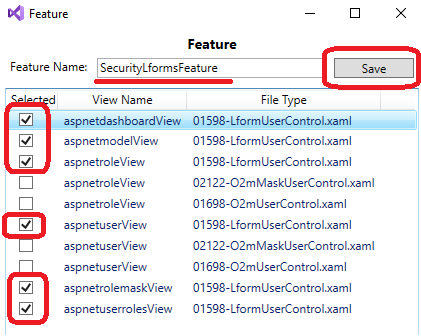
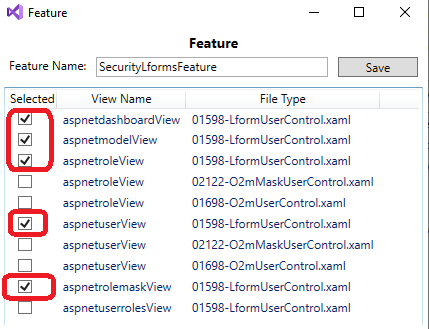
readme changed and some bag fix

diff --git a/readme.md b/readme.md
@@ -86,7 +86,10 @@
 #### [Modify main menu for Features of  Authorization](#Modify-main-menu-for-Features-of-Authorization)
 #### [Test Features of  Authorization](#Test-Features-of-Authorization)
 #### [Populate data for  Authorization](#Populate-data-for-Authorization)
-
+#### [Add Roles to  application](#Add-Roles-to-application)
+#### [Add bitmask rows for  roles](#Add-bitmask-rows-for-roles)
+#### [View user permissions](#View-user-permissions)
+#### [Turn on  Authorization](#Turn-on-Authorization)
 
 ## Programming tools used to start the development process
 ### The following Programming tools must be used to begin development:
@@ -1605,7 +1608,7 @@ Again, immediately after logging out of the system, the Permissions variable sho
         int[] _Permissions = new int[] { 0, 0, 0, 0, 0, 0, 0, 0, 0, 0, 0, 0, 0, 0, 0, 0, 0 };
 ```
         
-Information about how to generate and setup Authorization for the server and client part of the app will be described in the Wiki of CS2WPF-project.
+Information about how to generate and setup Authorization for the server and client part of the app will be described in the Wiki of CS2WPF-project and in this readme.
 
 Note 1: the developer should not manually populate data for Views and Dashboards vars. There is a special generator scripts for SQL-code (to populate Database tables) and C# code to be inserted in AppGlblSettingsService.cs-file. 
 
@@ -1989,7 +1992,7 @@ Under [Creating LiteratureTest Database on the server  side](#Creating-Literatur
     - aspnetroleView (01598-LformUserControl.xaml)
     - aspnetuserView (01598-LformUserControl.xaml)
     - aspnetrolemaskView (01598-LformUserControl.xaml)
-    - aspnetuserrolesView (01598-LformUserControl.xaml)
+    
 
 ![picture](img/img03rm27.png)
 
@@ -2039,7 +2042,6 @@ Under [Creating LiteratureTest Database on the server  side](#Creating-Literatur
 ###  Creating SecurityO2msFeature
 - Repeat steps 1-21 of [Creating  SecurityLformsFeature](#Creating-SecurityLformsFeature)
 - At Step 5: In the "Feature"-dialog enter "SecurityO2msFeature"-name for the feature and check the following items and click "Save"-button
-    - aspnetroleView (01698-O2mUserControl.xaml)
     - aspnetroleView (02122-O2mMaskUserControl.xaml)
     - aspnetuserView (01698-O2mUserControl.xaml)
     - aspnetuserView (02122-O2mMaskUserControl.xaml)
@@ -2182,3 +2184,85 @@ To populate data for "LitDbContext" the developer should follow the steps descri
 ## Add Roles to application
 For now we are ready to add/modify/delete roles for the  application.
 - Click "Security Lforms Feature"-menu item
+- "AspnetroleViewLformUserControl"-child window gives this opportunity
+
+![picture](img/img03rm39.png)
+
+## Assign roles to user
+For now we are ready to Assign(Remove) roles to user.
+- Click "Security Lforms Feature"-menu item
+- "AspnetuserViewO2mUserControl"-child window gives this opportunity
+
+![picture](img/img03rm40.png)
+
+## Add bitmask rows for roles
+Selecting master rows in "AspnetroleViewO2mMaskUserControl"-controls does not changed the detail panel. This is because "dbo.aspnetrolemasks"-table is empty.
+
+![picture](img/img03rm41.png)
+
+- Navigate to "Security Lforms Feature"
+- With AspnetrolemaskViewLformUserControl add one row for each Role.
+
+![picture](img/img03rm42.png)
+
+Selecting master rows in "AspnetroleViewO2mMaskUserControl"-controls shows the detail panel. 
+
+![picture](img/img03rm43.png)
+
+## View user permissions
+After configuring permissions for roles and assigning roles to users, you can view user permissions, which is READ ONLY.
+- "AspnetuserViewO2mMaskUserControl"-child window gives this opportunity
+
+![picture](img/img03rm44.png)
+
+## Turn on Authorization
+- Step 1: Open "AppGlblSettingsService.cs"-file of CommonServicesPrismModule-project. Comment (or delete) the first line in the body of GetViewModelMask() and GetDashBrdMask() methods.
+```java    
+        public int GetViewModelMask(string vwModel) {
+            //return 15; // delete this line when vwModels is ready
+        ...
+        public int GetDashBrdMask(string dshBrd) {
+            //return 1; // delete this line when dshBrds is ready
+```
+
+- Step 2: Open MainWindowViewModel.cs-file of PrismTestApp-project. Uncomment the code in the body of OnUserChangedNotification() method:
+```java    
+        /* Uncomment to turn ON Authorization
+         
+        IAspnetusermaskViewServicePermission ServicePermission = null;
+        */
+        protected void OnUserChangedNotification(object sender, string uname) {
+            UserName = uname;
+            /* Uncomment to turn ON Authorization
+            if (string.IsNullOrEmpty(uname))
+            {
+                GlblSettingsSrv.Permissions = GlblSettingsSrv.GetEmptyPermissions();
+            } else
+            {
+                if(ServicePermission == null)
+                {
+                    ServicePermission = _containerProvider.Resolve<IAspnetusermaskViewServicePermission>();
+                }
+                Application.Current.Dispatcher.Invoke(async () =>
+                {
+                    IaspnetusermaskViewPage rslt = await ServicePermission.getcurrusermasks();
+                    GlblSettingsSrv.Permissions = ServicePermission.src2array(rslt);
+                });
+            }
+            */
+        }
+```
+- Here is a result:
+
+![picture](img/img03rm45.png)
+
+- And after login:
+
+![picture](img/img03rm46.png)
+
+- But admin does not have permission for "LitGenre"
+
+![picture](img/img03rm47.png)
+
+- Note: Only navigation awair user control and Features support authorization.
+
